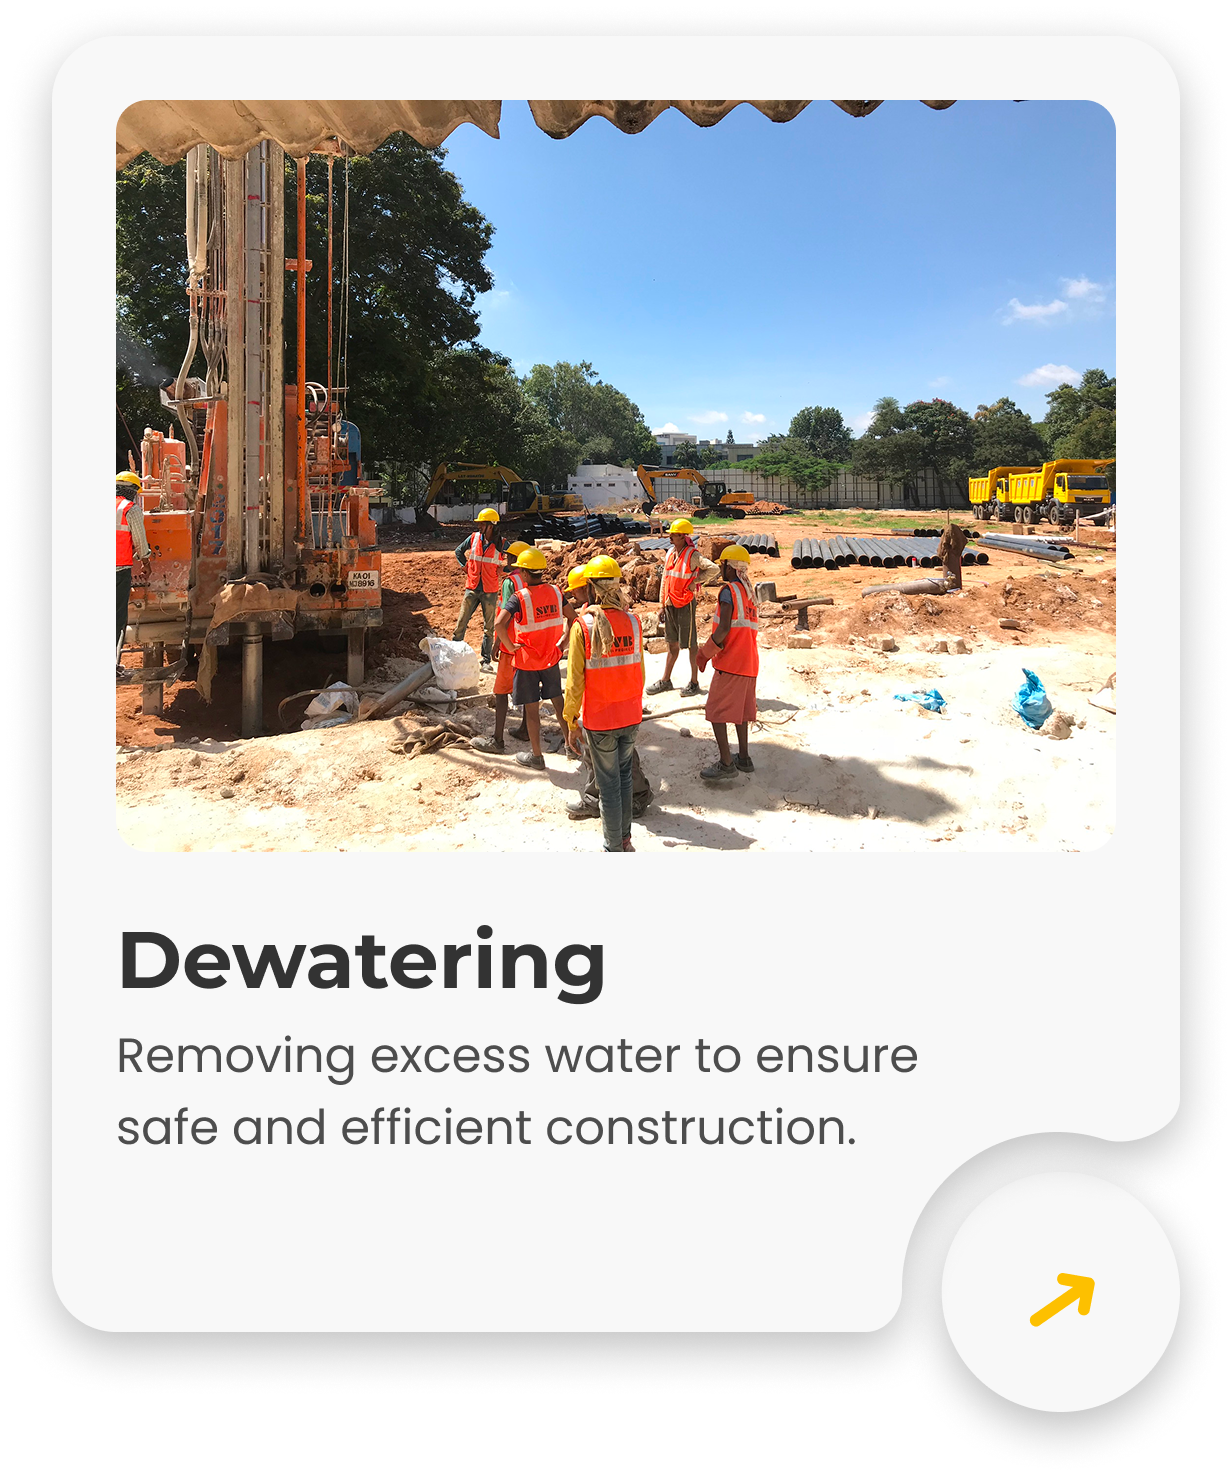
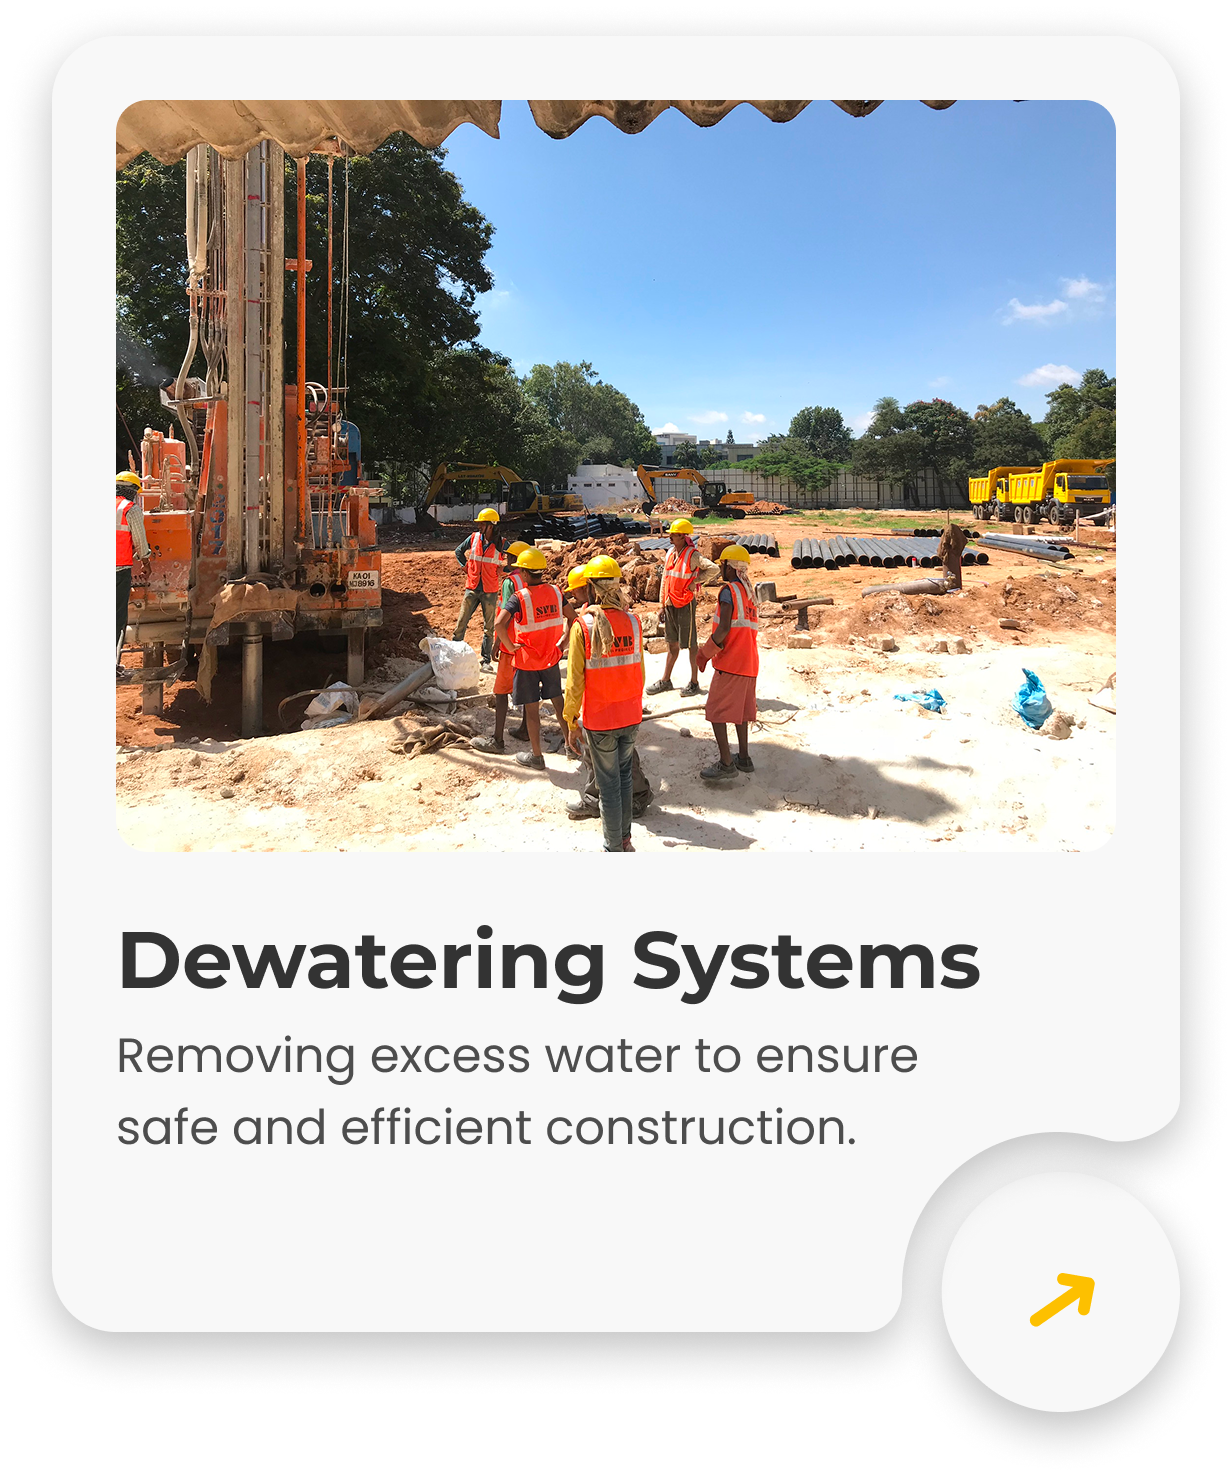
...

Changed region(s): [[0.4935, 0.6233, 0.8019, 0.6856]]

diff --git a/client/src/pages/AboutHighlights .jsx b/client/src/pages/AboutHighlights .jsx
@@ -53,15 +53,22 @@ const AboutHighlights = () => {
             // className="popins-bold text-[1.6rem] md:text-[3rem] lg:text-[4rem] md:leading-14 lg:leading-19"
             className="text-[#333333] xl:text-6xl lg:text-6xl md:text-5xl sm:text-4xl text-3xl font-bold leading-tight"
           >
-            Know why we’re the{" "}
-            <span className="text-[#FCD000] mr-2 sm:mr-4">
-              trusted <br className="hidden sm:block" /> partner
+            Trusted
+            <span className="text-[#FCD000] ml-2 mr-2 sm:mr-4">
+              Infrastructure  Execution
             </span>
-            for every construction <br className="hidden sm:block" /> need.
+            Partner
           </p>
 
-          <p className="xl:text-xl lg:text-xl md:text-lg text-sm lg:max-w-[700px] md:max-w-[500px] leading-relaxed text-[#333333]">
-            A fleet engineered for strength, accuracy, and unmatched efficiency.
+          <p className="xl:text-xl lg:text-xl md:text-lg text-sm  leading-relaxed text-[#333333]">
+            Backed by strong technical expertise and hands-on site knowledge,
+            SVB Infra Projects delivers dependable excavation and site
+            development solutions under complex ground conditions and tight
+            timelines. Our focus on safety, quality, and execution discipline
+            enables us to support large-scale projects with confidence and
+            consistency. Operating across Karnataka and Andhra Pradesh, we
+            partner with developers, EPC contractors, and industrial clients to
+            build strong foundations for future infrastructure.
           </p>
         </div>
       </motion.div>
@@ -93,7 +100,7 @@ const AboutHighlights = () => {
               Upgraded Fleet
             </p>
             <p className="text-[#4D4D4D] text-[0.9rem] sm:text-[1.1rem] md:text-[0.8rem] lg:text-[1rem] xl:text-[1rem] 2xl:text-[1.3rem] popins">
-              Advanced equipment for every project need
+              Strong Machinery Fleet & Skilled Workforce
             </p>
           </motion.div>
 
@@ -129,7 +136,7 @@ const AboutHighlights = () => {
               Qualified Team
             </p>
             <p className="text-[#4D4D4D] text-[0.9rem] sm:text-[1.1rem] md:text-[0.8rem] lg:text-[1rem] xl:text-[1rem] 2xl:text-[1.3rem] popins">
-              Skilled Workforce Delivering Exceptional Results
+              Professional Reporting & Transparent Execution
             </p>
           </motion.div>
         </div>
@@ -156,8 +163,7 @@ const AboutHighlights = () => {
               Reliable Results
             </p>
             <p className="text-[#4D4D4D] text-[0.9rem] sm:text-[1.1rem] md:text-[0.8rem] lg:text-[1rem] xl:text-[1rem] 2xl:text-[1.3rem] popins">
-              Trusted since 2003, delivering projects across Karnataka and AP
-            </p>
+             22+ Years of Execution Experience</p>
           </motion.div>
 
           {/* Bottom Center */}
@@ -180,7 +186,7 @@ const AboutHighlights = () => {
               Safety Priority
             </p>
             <p className="text-[#4D4D4D] text-[0.9rem] sm:text-[1.1rem] md:text-[0.8rem] lg:text-[1rem] xl:text-[1rem] 2xl:text-[1.3rem] popins">
-              Safety is our top priority in every project.
+              Strict Safety & Quality Compliance
             </p>
           </motion.div>
 
@@ -201,14 +207,13 @@ const AboutHighlights = () => {
               />
             </motion.div>
             <p className="font-semibold text-[1.4rem] sm:text-[1.8rem] md:text-[1.2rem] lg:text-[1.5rem] xl:text-[1.5rem] 2xl:text-[2rem] fontMon text-[#333333]">
-              Client Priority
+              Clientile
             </p>
             <p
               className="text-[#4D4D4D] text-[0.9rem] sm:text-[1.1rem] md:text-[0.8rem] lg:text-[1rem] 
           xl:text-[1rem] 2xl:text-[1.3rem] popins"
             >
-              Building strong partnerships with tailored client solutions
-            </p>
+             Capability to Handle Large-Scale Industrial Projects </p>
           </motion.div>
         </div>
       </motion.section>

diff --git a/client/src/pages/Landing.jsx b/client/src/pages/Landing.jsx
@@ -49,16 +49,16 @@ import { ChevronDown } from "lucide-react";
 const Landing = () => {
   const cardData = [
     {
-      number: "50+",
-      label: "Successful Project",
+      number: "22+",
+      label: "Years of Experience",
     },
     {
-      number: "100+",
-      label: "Machines & Equipments",
+      number: "45+",
+      label: "Extensive Machinery Fleet",
     },
     {
-      number: "27/7",
-      label: "Anywhere Assistance",
+      number: "24/7",
+      label: "Operational Support",
     },
   ];
   const [applyEffect, setApplyEffect] = useState(false);
@@ -174,9 +174,9 @@ const Landing = () => {
             {/* Text Block */}
             <div className="flex flex-col gap-5 ">
               <h1 className="text-white xl:text-6xl lg:text-6xl md:text-5xl sm:text-4xl text-3xl font-bold leading-tight">
-                Building the Future with{" "}
+                Building with
                 <span className="sm:block inline text-primary">
-                  Strength & Precision
+                  Precision and Reliability
                 </span>
               </h1>
 
@@ -289,16 +289,7 @@ const Landing = () => {
                         
                         "
                   >
-                    SVB Infra Projects is a 3rd generation family-run business.
-                    SVB has been managing earthmoving projects since 2003. Based
-                    in Bangalore, we provide a fast, flexible, reliable and
-                    professional service statewide. We offer contract
-                    earthmoving services across the state providing a
-                    professional and reliable service to the main and sub
-                    contract civil engineering sector. We have had over 15
-                    years’ experience for total excavation solution. We work
-                    with some of the biggest names in construction and civil
-                    engineering sector.
+                   SVB Infra Projects is a professionally managed infrastructure and earthwork contracting company with over two decades of execution experience. We specialize in large-scale excavation, land development, rock excavation, soil retention, and dewatering works for industrial, commercial, and infrastructure projects.
                   </p>
 
                   <div className="items-center sm:justify-between md:justify-start justify-start gap-2 xl:hidden 2xl:flex lg:hidden md:flex sm:flex flex ">

diff --git a/client/src/pages/AboutPage.jsx b/client/src/pages/AboutPage.jsx
@@ -131,9 +131,9 @@ const AboutPage = () => {
                          sm:text-4xl text-3xl font-bold 
                         leading-tight popins-noweight "
                   >
-                    Excellence, <br />
-                    <span className="text-primary mr-2">Expertise,</span>
-                    Efficiency
+                    Proven, <br />
+                    <span className="text-primary mr-2">Project,</span>
+                    Experience
                   </h1>
                   <p
                     className="xl:text-xl text-[#4D4D4D]  w-full
@@ -145,13 +145,8 @@ const AboutPage = () => {
                     <span className="font-semibold mr-2">
                       SVB Infra Projects
                     </span>
-                    is a 3rd generation family run business. SVB has been
-                    managing earthmoving projects since 2003. Based in
-                    Bangalore, we provide a fast, flexible, reliable and
-                    professional service statewide. We offer contract
-                    earthmoving services across the state providing a
-                    professional and reliable service to the main and sub
-                    contract civil engineering sector.
+                     is a professionally managed infrastructure and earthwork contracting company with over two decades of execution experience. We specialize in large-scale excavation, land development, rock excavation, soil retention, and dewatering works for industrial, commercial, and infrastructure projects.
+                 
                   </p>
                 </div>
                 <div className="w-full    items-center flex justify-between lg:justify-normal lg:gap-3 xl:gap-7 2xl:gap-5">
@@ -177,7 +172,7 @@ const AboutPage = () => {
            font-semibold
             "
                     >
-                      10+
+                      100+
                     </h4>
                     <p className=" 2xl:text-[16px] xl:text-[16px] lg:text-[14px] md:text-lg sm:text-[16px] text-[9px] text-center ">
                       Clients
